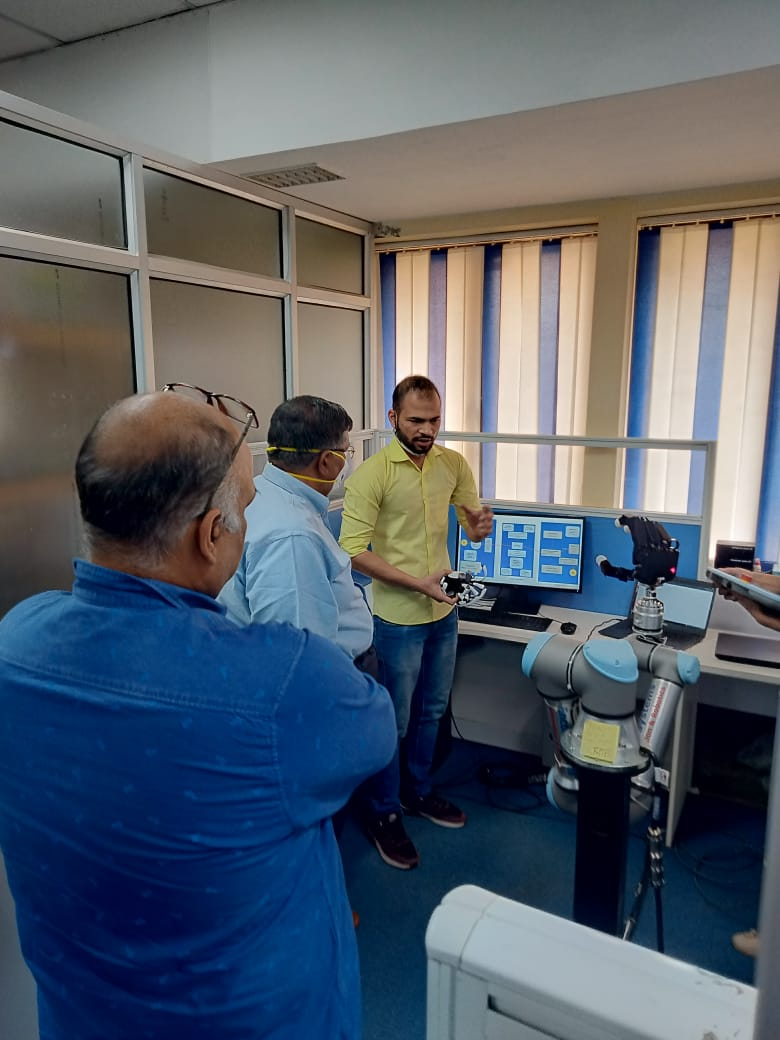
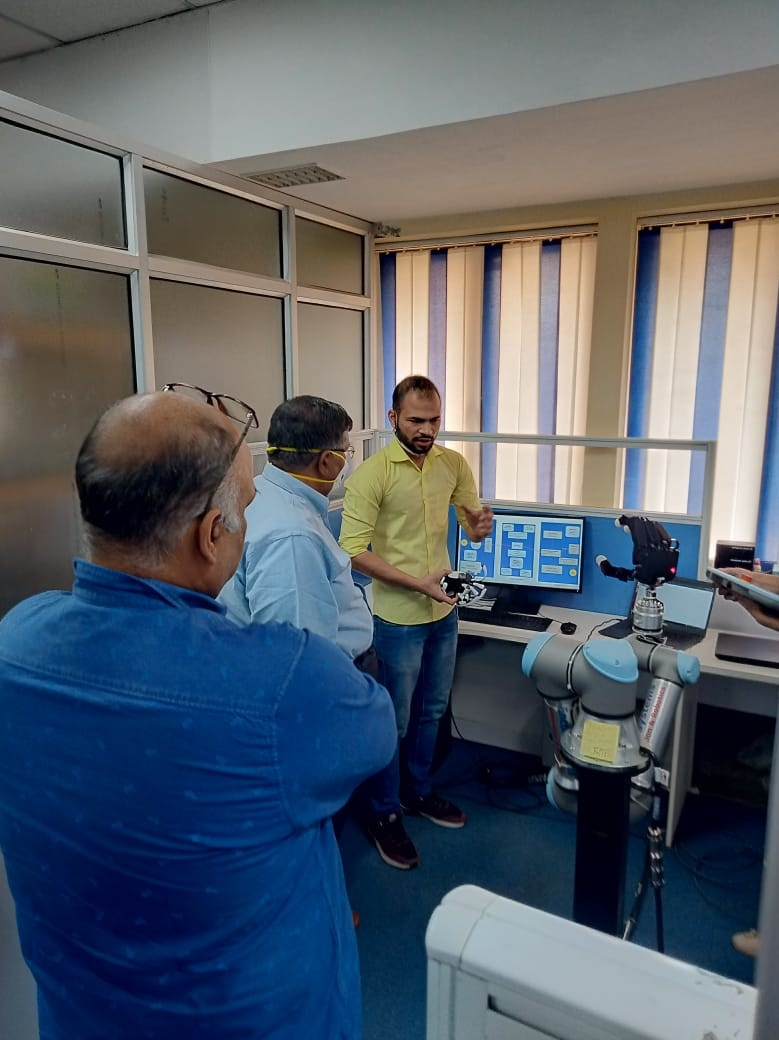
Images Changed

diff --git a/index.html b/index.html
@@ -143,11 +143,11 @@
 
 									<div class="slideshow-container">
 								    <div class="mySlides fade">
-								      <div class="numbertext">1 / 3</div> <img src="images/1.jpeg" style="width:100%">
+								      <div class="numbertext">1 / 3</div> <img src="images/1.jpg" style="width:100%">
 								      <div class="text">Indian Institute of Technology Delhi</div>
 								    </div>
 								    <div class="mySlides fade">
-								      <div class="numbertext">2 / 3</div> <img src="images/2.jpeg" style="width:100%">
+								      <div class="numbertext">2 / 3</div> <img src="images/2.jpg" style="width:100%">
 								      <div class="text">Indian Institute of Technology Delhi</div>
 								    </div>
 								    <div class="mySlides fade">
